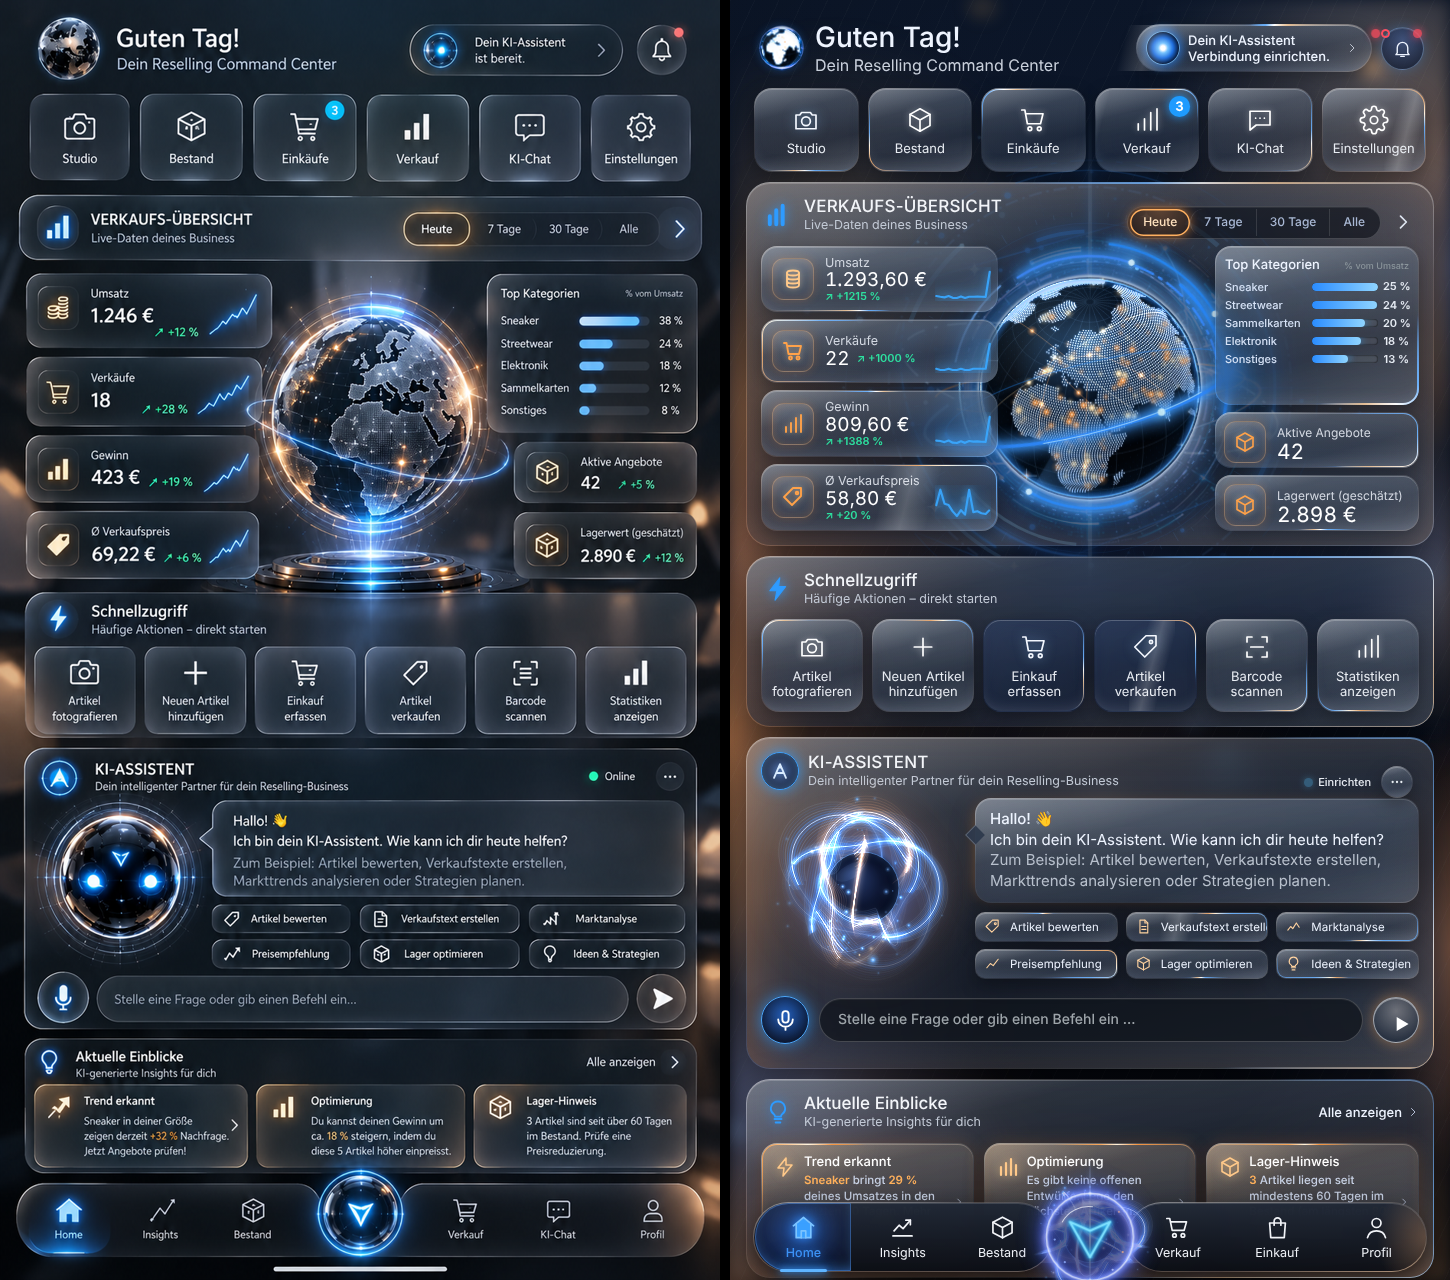
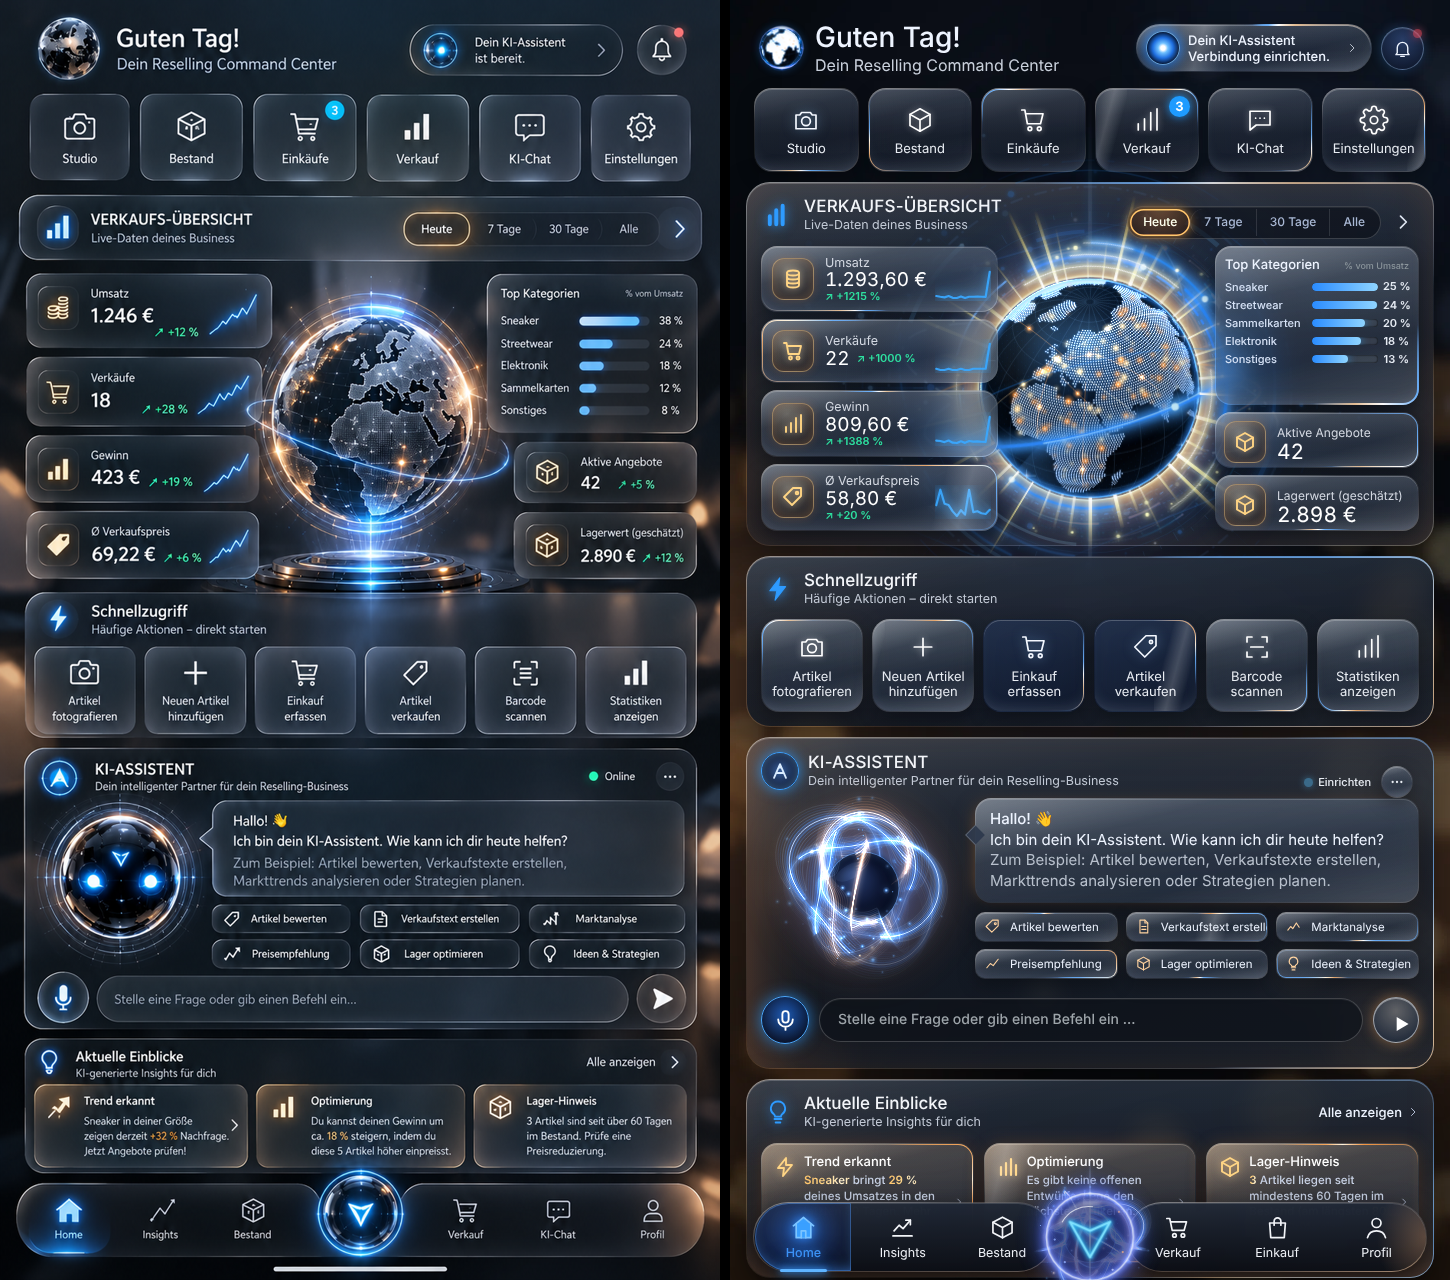
Hintergrund wie in der Vorlage: dunkler unscharfer Raum mit warmem Bokeh
- Neues Hintergrundbild rv-bg.webp: dunkles Navy, angedeutete Architektur,
  warme Bokeh-Lichter an den Seiten, kühle oben rechts, Vignette
- Alte farbige Verläufe, Struktur und treibende Lichtflecken entfernt
- Abschnitte und Kacheln dunkler, damit der Hintergrund nicht verwäscht

Claude-Session: https://claude.ai/code/session_0194bcZ5PbUBuV3hzmwdGD96

diff --git a/public/theme.css b/public/theme.css
@@ -862,3 +862,25 @@ body:has(#home:not(.hidden)) .v11-ai .rv-crafted-chat #homeAiSend, .cc-send { bo
   .v11-m .mi .v11-ico, .v11-s2 .mi .v11-ico, .cc-q .ic .v11-ico, .v11-card .ci, .v11-m .mi::after, .v11-s2 .mi::after, .cc-q .ic::after, .v11-card p em, .cc-globe-gold { animation:none !important; }
 }
 :root { --gold-1:#fff0c8 !important; --gold-2:#ffd585 !important; --gold-3:#ffb24e !important; }
+
+/* ================= Hintergrund wie in der Vorlage: unscharfer Raum mit warmem Bokeh ================= */
+body:has(#home:not(.hidden)), body:has(#aiChat:not(.hidden)) {
+  background:
+    radial-gradient(ellipse 60% 26% at 50% 34%, rgba(50,100,200,.14), transparent 70%),
+    url('/rv-bg.webp') center top / cover no-repeat fixed,
+    #070a11 !important; }
+html:has(#home:not(.hidden)), html:has(#aiChat:not(.hidden)) { background:#070a11; }
+body:has(#home:not(.hidden))::before { background:none !important; display:none !important; }
+.cc-bokeh { opacity:.35 !important; filter:blur(14px) !important; }
+/* Hintergrund klar und dunkel, Abschnitte dunkler wie in der Vorlage */
+.cc-bokeh { display:none !important; }
+.v11-panel {
+  background:
+    linear-gradient(180deg, rgba(150,175,210,.10), rgba(80,100,135,.04) 60%, rgba(70,90,120,.06)) padding-box,
+    linear-gradient(180deg, rgba(16,24,36,.78), rgba(12,18,28,.84)) padding-box,
+    linear-gradient(165deg, rgba(255,255,255,.55), rgba(255,255,255,.14) 25%, rgba(255,255,255,.05) 60%, rgba(255,255,255,.30)) border-box !important;
+  -webkit-backdrop-filter:blur(10px) saturate(1.1) !important; backdrop-filter:blur(10px) saturate(1.1) !important; }
+.v11-tile { background:
+    linear-gradient(180deg, rgba(185,205,230,.14), rgba(120,140,170,.06) 55%, rgba(90,110,140,.08)) padding-box,
+    linear-gradient(180deg, rgba(18,26,40,.70), rgba(14,20,32,.76)) padding-box,
+    linear-gradient(165deg, rgba(255,255,255,.55), rgba(255,255,255,.14) 30%, rgba(255,255,255,.06) 65%, rgba(255,255,255,.28)) border-box !important; }

diff --git a/public/sw.js b/public/sw.js
@@ -1,10 +1,10 @@
-const CACHE='rv-studio-v19-blueglass-13';
+const CACHE='rv-studio-v19-blueglass-14';
 const FILES=['/','/index.html','/app.css','/dashboard.css','/fx.css','/ref.css','/theme.css','/app.js','/dashboard.js','/fx.js',
   '/vendor/jszip.min.js','/fonts/command-sans-regular.otf','/fonts/command-sans-bold.otf',
   '/rv-logo.jpg','/rv-ai-mascot.png','/rv-robot-premium.png','/rv-white.png',
   '/rv-mark-cropped.png','/rv-studio-script.png','/icons/icon-192.png','/icons/icon-512.png',
   '/manifest.webmanifest','/v11-globe.webp','/v11-robot.webp','/v11-navorb.webp',
-  '/v11-avatar.webp','/v15-frame-left.png','/v15-frame-right.png','/rv-frame.webp'];
+  '/v11-avatar.webp','/v15-frame-left.png','/v15-frame-right.png','/rv-frame.webp','/rv-bg.webp'];
 self.addEventListener('install',event=>event.waitUntil(
   caches.open(CACHE).then(cache=>cache.addAll(FILES)).then(()=>self.skipWaiting())
 ));
